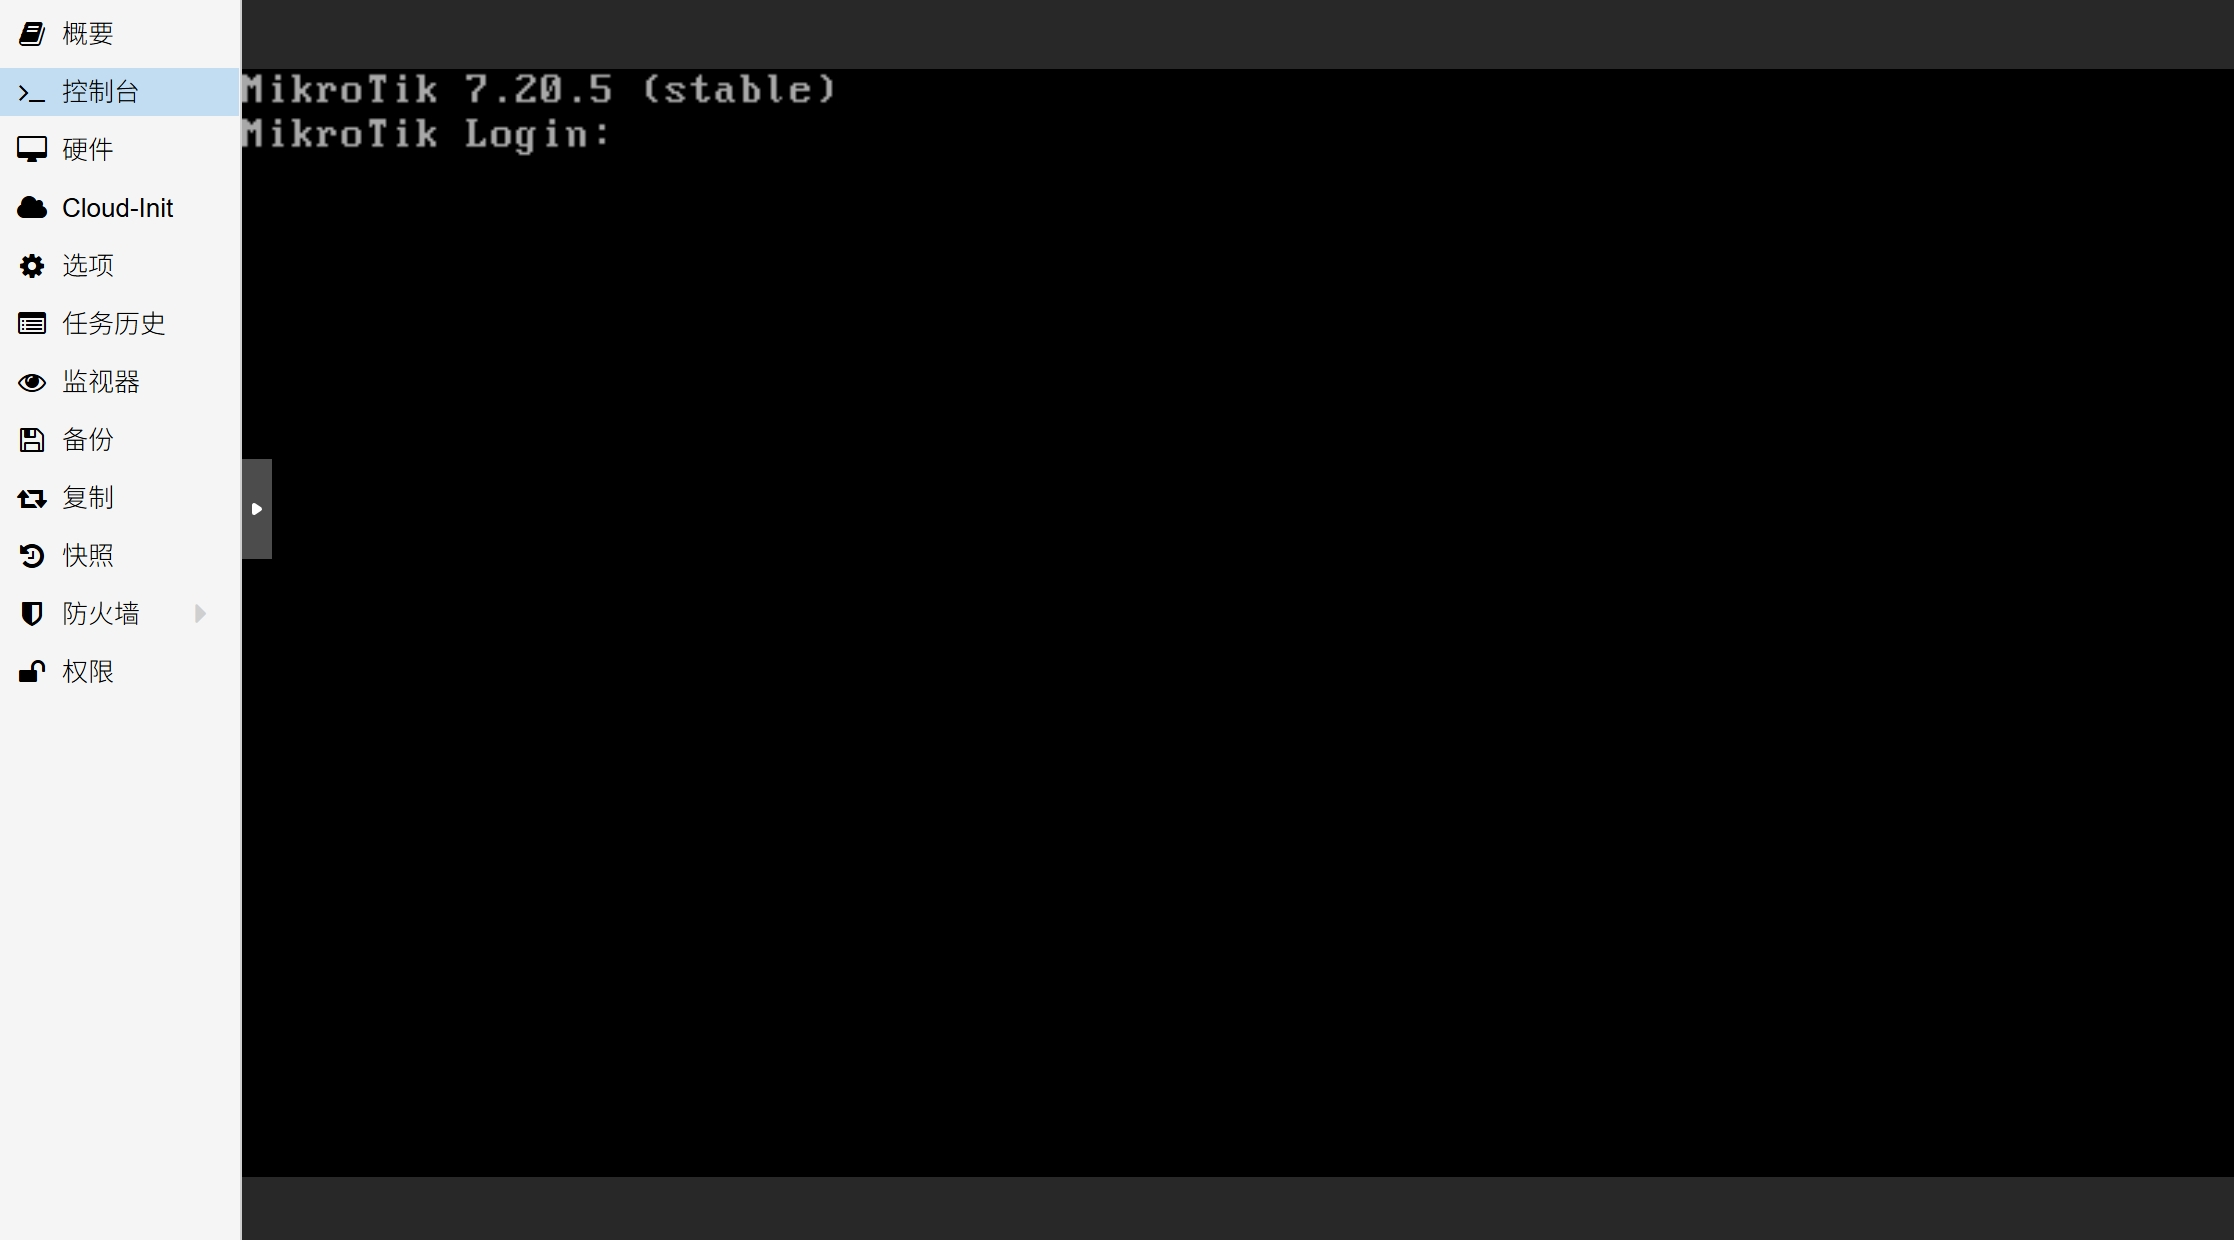
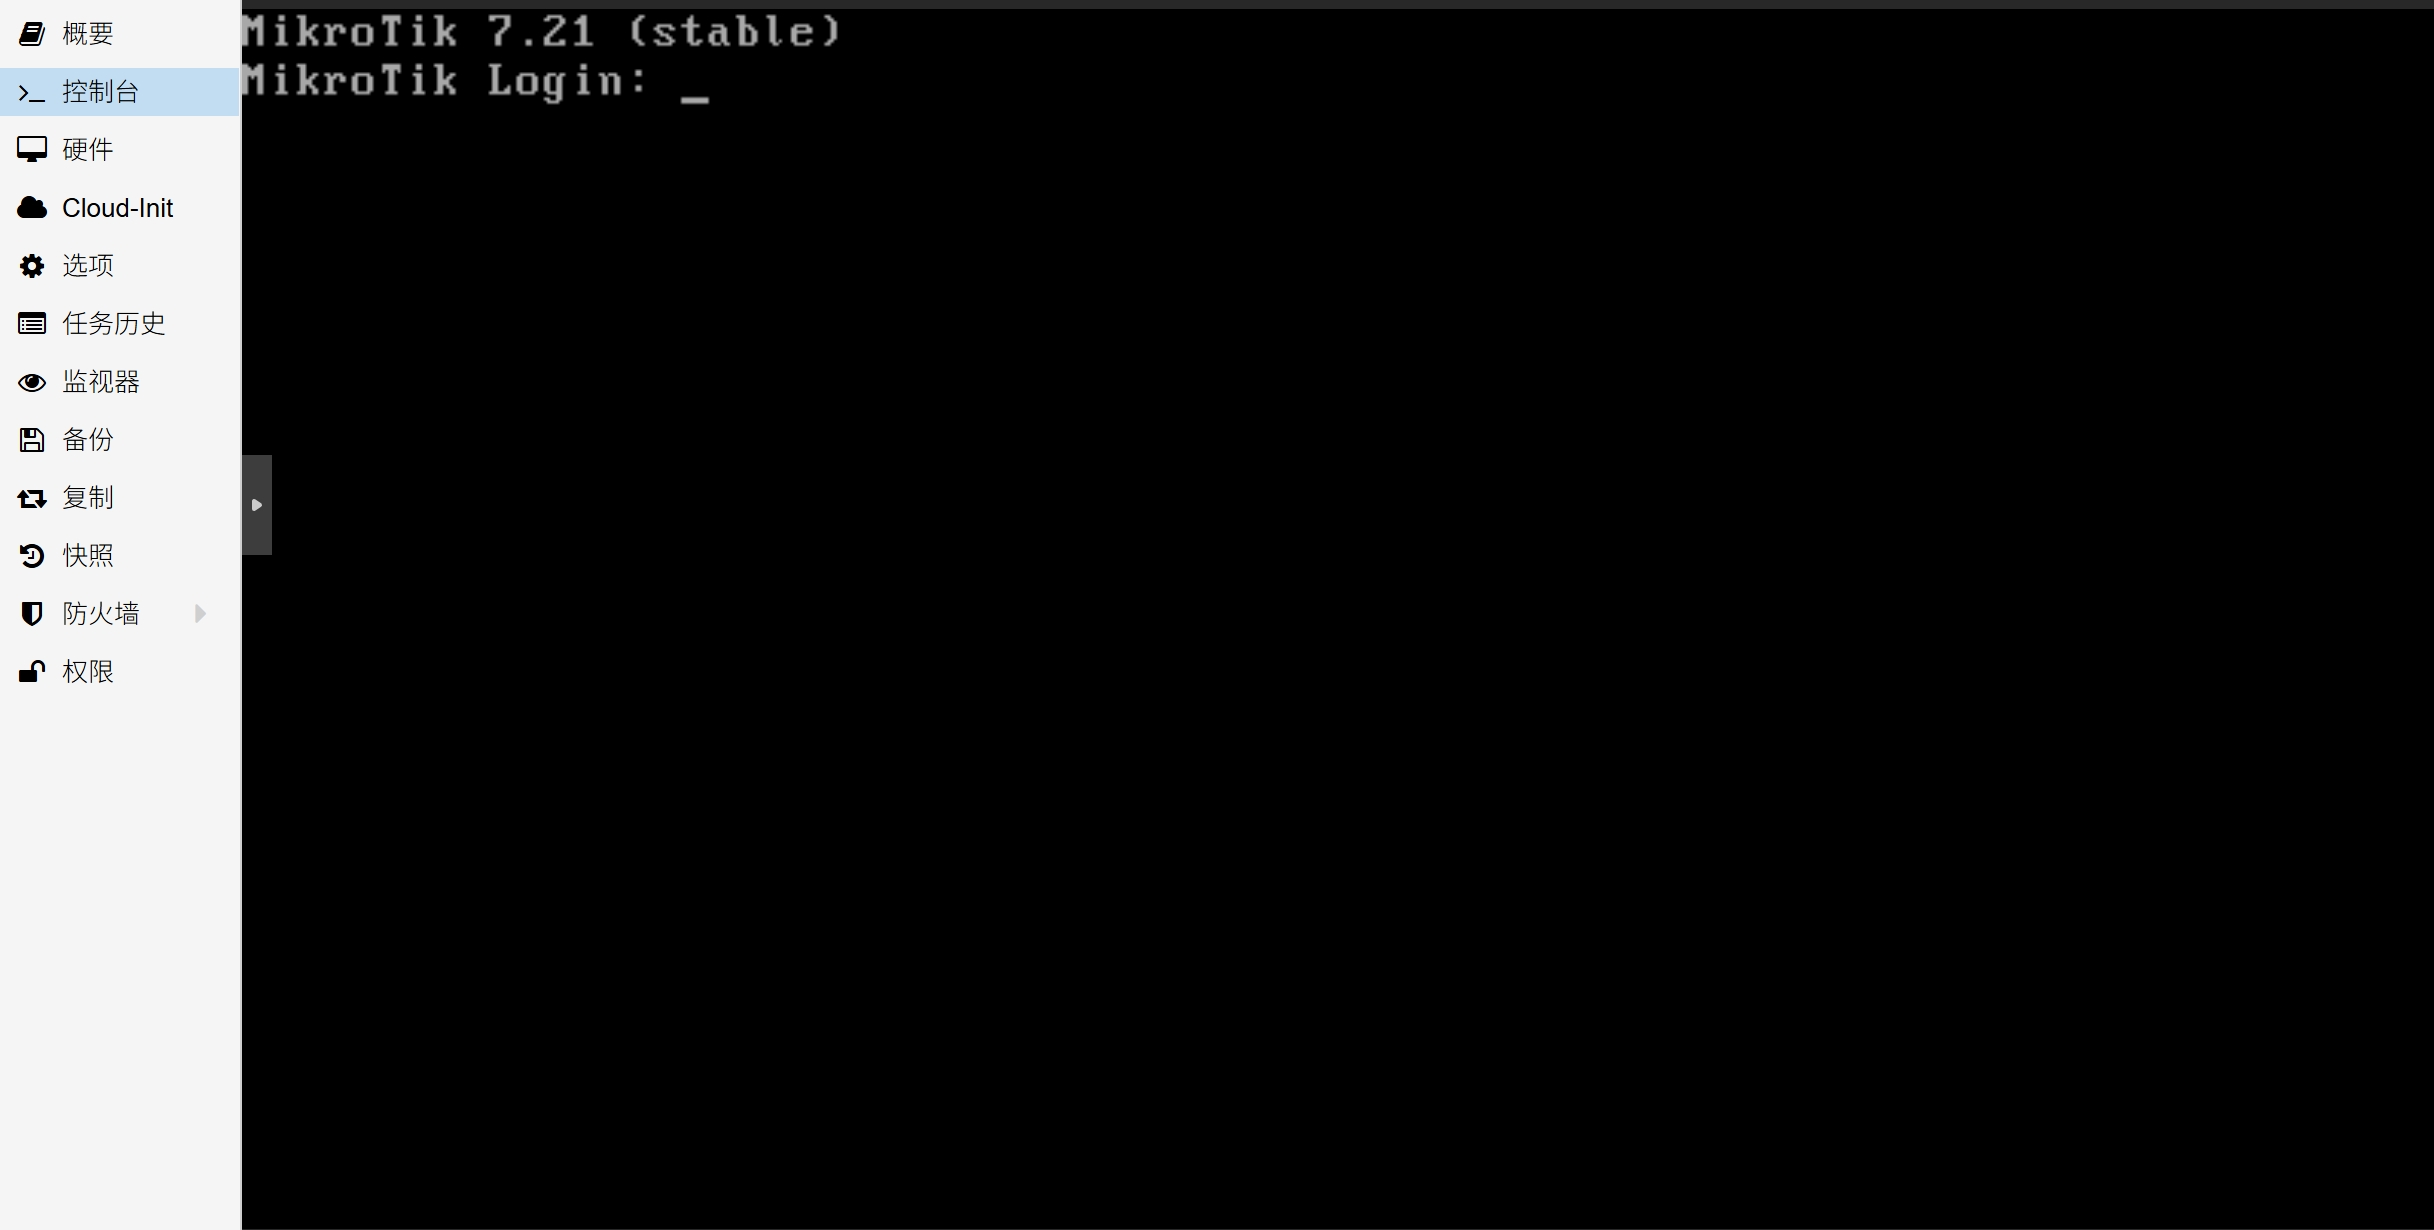
同步更新

Changed region(s): [[0.0, 0.0, 1.0, 1.0], [0.0, 0.0618, 0.0618, 0.1236], [0.0, 0.0, 0.0618, 0.0309]]

diff --git a/08.设置IPv6.md b/08.设置IPv6.md
@@ -166,13 +166,17 @@
 |RA Interval|`300-900`|设置 `ND` 通告的时间间隔，时间单位为秒|
 |RA Lifetime|`2700`|设置 `ND` 通告的生存周期，时间单位为秒|
 |Hop Limit|`64`|缺省情况下，将设备初始发送 IPv6 单播报文的跳数限制为 64|
-|DNS Servers| - |`ND` 通告的 IPv6 DNS 服务器地址|
-|Advertise MAC Address| 勾选 |在 `ND` 通告中包含 `Interface` 接口的 MAC 地址信息|
-|Advertise DNS| - |在 `ND` 通告中包含 `DNS Servers` 中指定的 DNS 服务器|
+|DNS Servers| - |设置 `ND` 通告的 IPv6 DNS 服务器地址|
+|Advertise MAC Address| 勾选 |是否在 `ND` 通告中包含 `Interface` 接口的 MAC 地址信息|
+|Advertise DNS| - |是否在 `ND` 通告中包含 `DNS Servers` 中指定的 DNS 服务器|
 
-如果在某些场景下，需避免内网设备获取 IPv6 DNS 服务器，则可将 `DNS Servers` 参数留空，并取消勾选 `Advertise DNS` 选项。  
+目前 `Advertise DNS` 选项具备 3 种模式，分别是 `no` 、 `self` 和 `yes` ，将影响 RADVD 协议分发的 DNS 内容：  
 
-在 `DNS Servers` 参数为空，但 `Advertise DNS` 选项为勾选状态时，RouterOS 将从系统 DNS 列表中选择具有 IPv6 地址的 DNS 服务器进行通告。  
+- `no` ：RADVD 路由通告中**不携带任何 IPv6 DNS 地址信息**，下游设备无法自动获取 IPv6 DNS 服务器地址。  
+
+- `self` ：将对应接口的**链路本地地址（LLA）** 作为 IPv6 DNS 服务器地址，纳入 RADVD 路由通告对外发布。  
+
+- `yes` ：从**系统 DNS 配置**列表中筛选 IPv6 地址，作为 IPv6 DNS 服务器地址纳入 RADVD 路由通告对外发布。  
 
 ![新建nd条目 - 无 IPv6 DNS](img/p08/wb_new_nd_no_dns.jpeg)
 

diff --git a/00.PVE下安装系统.md b/00.PVE下安装系统.md
@@ -122,7 +122,7 @@ $ mkdir -p /tmp/RouterOS
 $ cd /tmp/RouterOS
 
 ## 下载 RouterOS 镜像文件
-$ curl -LR -O https://download.mikrotik.com/routeros/7.20.5/chr-7.20.5.img.zip
+$ curl -LR -O https://download.mikrotik.com/routeros/7.21/chr-7.21.img.zip
 ```
 
 镜像文件下载完成后，检查其 `hash` 信息。  
@@ -132,10 +132,10 @@ $ curl -LR -O https://download.mikrotik.com/routeros/7.20.5/chr-7.20.5.img.zip
 $ ls -lah
 
 ## 计算文件 hash
-$ sha256sum chr-7.20.5.img.zip
+$ sha256sum chr-7.21.img.zip
 
 #### 文件 hash 示例输出
-4926c6c38e4ad8f6a9da03c854904c1094acfa23c7ebc9b16760d26fe763b94d  chr-7.20.5.img.zip
+644bb59b1479c670f482fab3e0284d1be8e2e70db40dec448db4ac531872272b  chr-7.21.img.zip
 ```
 
 将得到的 `hash` 值与官网提供的校验信息进行对比，确认无误后，再进行后续步骤。  
@@ -146,7 +146,7 @@ $ sha256sum chr-7.20.5.img.zip
 
 ```bash
 ## 将镜像文件解压缩
-$ unzip -q chr-7.20.5.img.zip
+$ unzip -q chr-7.21.img.zip
 ```
 
 ### 3.2.导入镜像文件
@@ -157,7 +157,7 @@ $ unzip -q chr-7.20.5.img.zip
 
 ```bash
 ## 将 img 镜像导入虚拟机中
-$ qm importdisk 101 chr-7.20.5.img local-lvm
+$ qm importdisk 101 chr-7.21.img local-lvm
 
 #### img 镜像导入示例输出
 unused0: successfully imported disk 'local-lvm:vm-101-disk-0'

diff --git a/07.设置定时任务.md b/07.设置定时任务.md
@@ -136,7 +136,7 @@ add comment="sysconf: system auto upgrade" dont-require-permissions=no name=sys-
 
 ![163邮箱smtp授权密码](img/p07/163_smtp_key.png)
 
-然后找到 `SMTP` 服务器地址 `smtp.163.com` ，并记录下加密传输端口号，目前更推荐使用 `587` 端口。  
+然后找到 `SMTP` 服务器地址 `smtp.163.com` ，并记录下加密传输端口号，目前更推荐使用 `465` 端口。  
 
 ![163邮箱协议与端口](img/p07/163_protocol_port.jpg)
 
@@ -147,7 +147,7 @@ add comment="sysconf: system auto upgrade" dont-require-permissions=no name=sys-
 |参数|值|说明|
 |--|--|--|
 |Server|`smtp.xxx.com`| SMTP 服务器地址，例如 `smtp.163.com`|
-|Port|`587`|SMTP 服务加密传输端口<br>163 邮箱文档中注明端口为 `465/994` ，但 `587` 端口也能使用|
+|Port|`465`|SMTP 服务加密传输端口|
 |TLS|`yes`|严格使用 TLS 加密|
 |From|`your-email-x@xxx.com`|发件箱地址，例如 `fox@163.com`|
 |User|`your-email-x@xxx.com`|账户，与 `From` 相同，例如 `fox@163.com`|

diff --git a/README.md b/README.md
@@ -4,7 +4,7 @@
 
 RouterOS 路由器的安装以及折腾手记。
 
-- RouterOS 适用版本：7.19 Stable
+- RouterOS 适用版本：7.21 Stable
 
 
 - 演示机：
